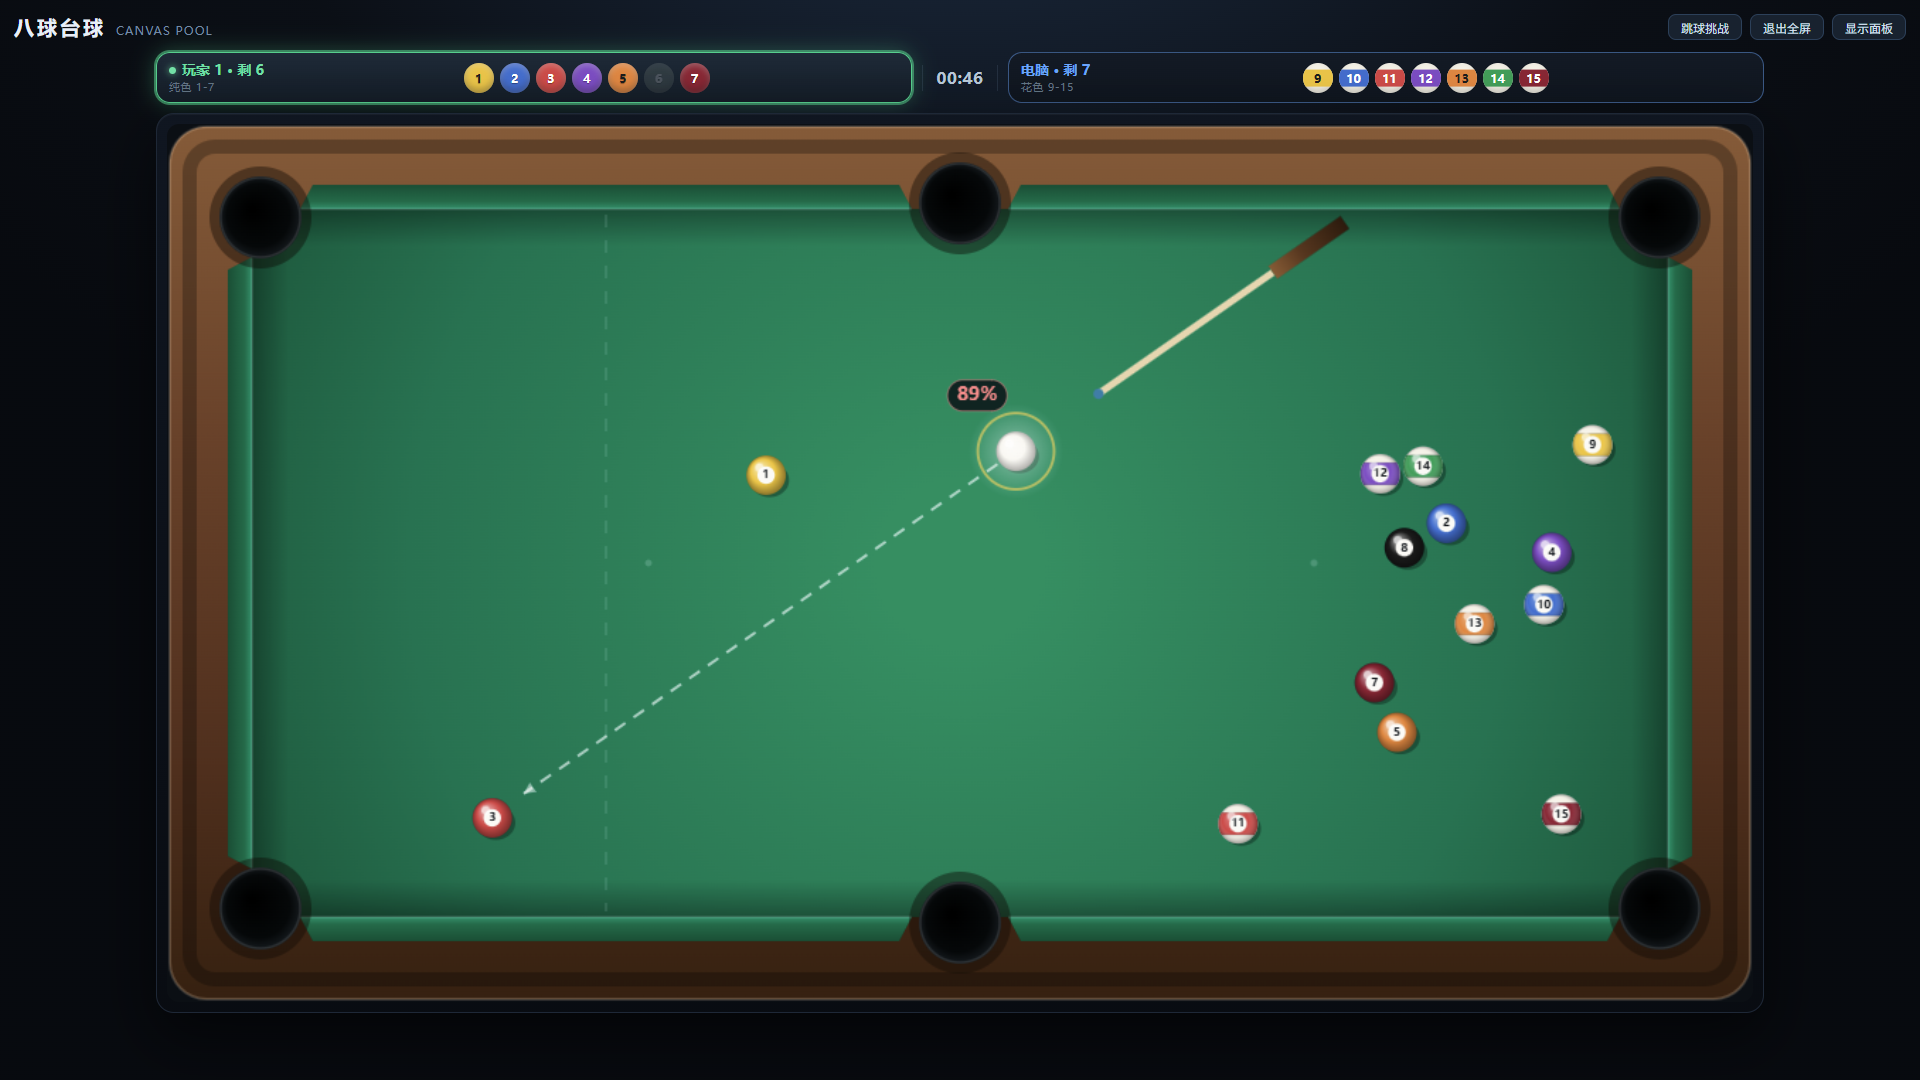
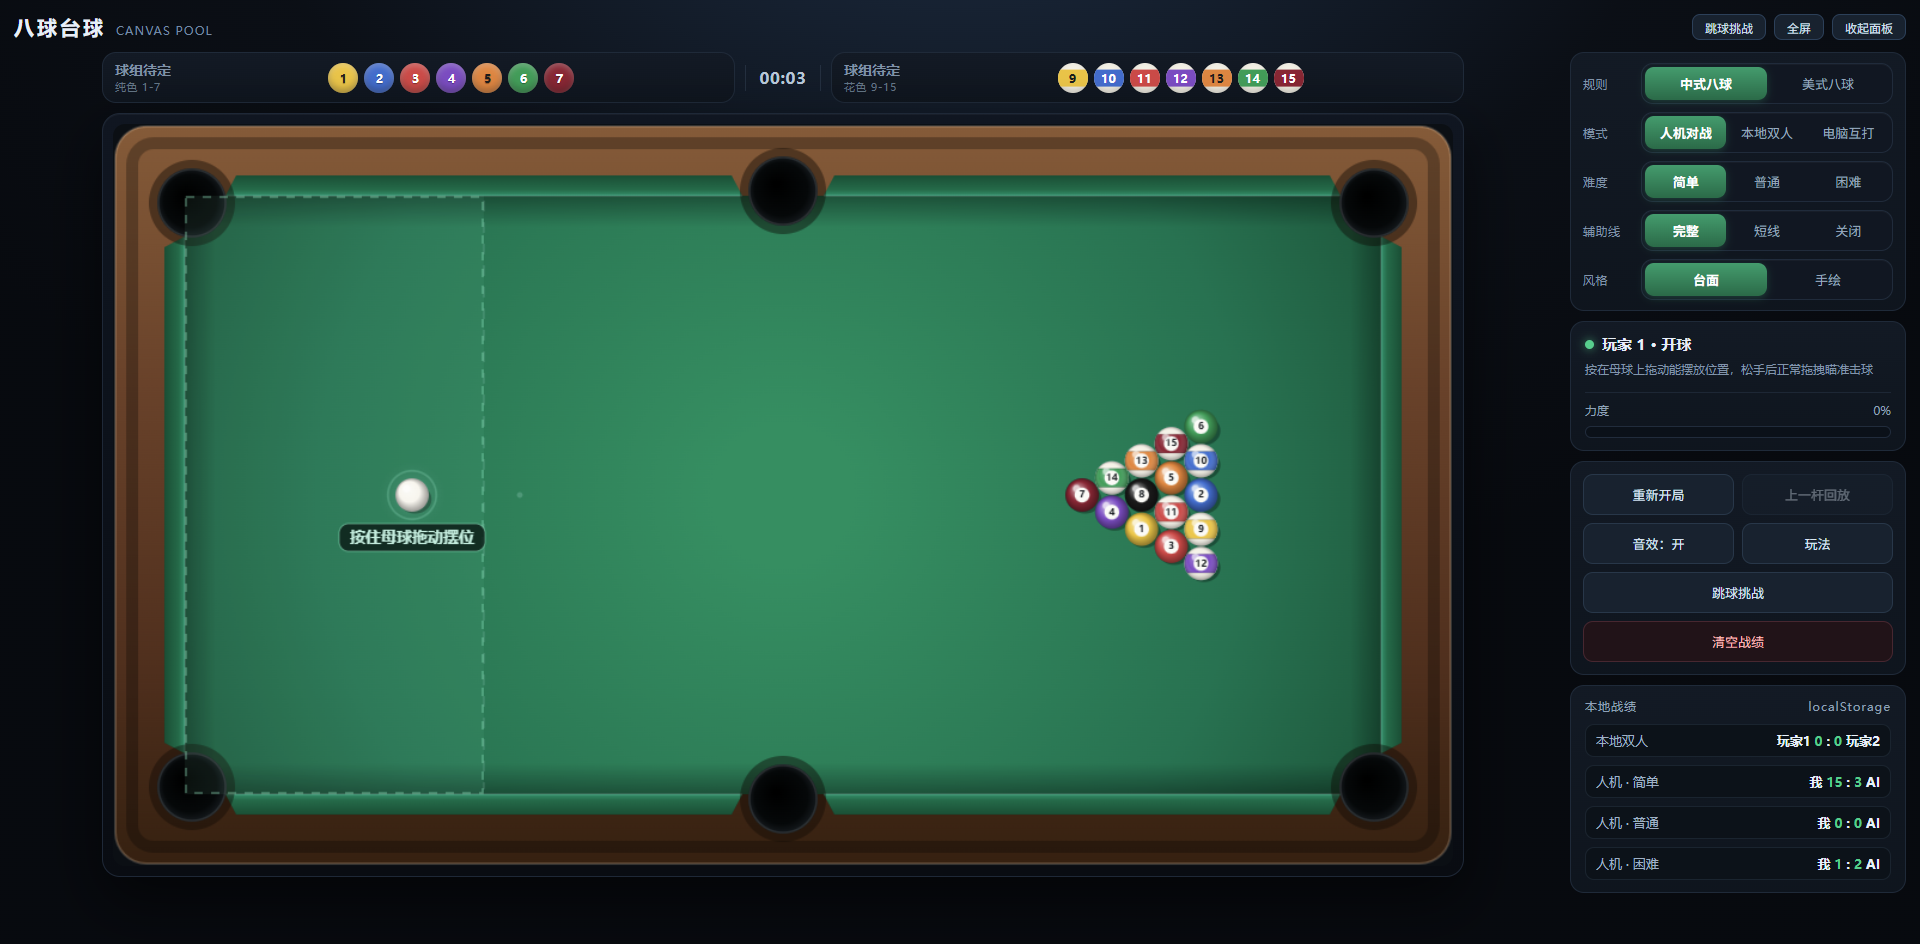
docs: 更新README文件

diff --git a/README.md b/README.md
@@ -11,25 +11,13 @@
 > **想从零学着自己做一个？** 附带一套 23 章的入门教程（假定你没写过 JavaScript）：[`docs/tutorial/00-导读.md`](./docs/tutorial/00-导读.md)，从"第一个网页"一路做到"能打、有规则、有对手、手机上也能玩"，最后一章番外讲怎么加一个独立的跳球小玩法。
 > 想看成一整本书的感觉，直接双击 [`docs/tutorial/index.html`](./docs/tutorial/index.html)，左侧就是目录，章节可点可翻。
 
-电脑端：
+手绘风格：
 
 ![](./imgs/1.png)
 
-打球：
+台面风格：
 
 ![](./imgs/2.png)
-
-跳球挑战：
-
-![](./imgs/4.png)
-
-设置面板：
-
-![](./imgs/3.png)
-
-移动端：
-
-![](./imgs/5.jpg)
 
 ## 快速开始
 
